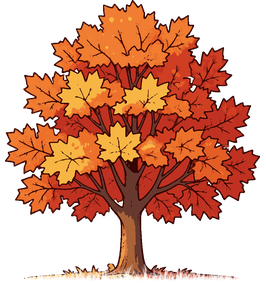
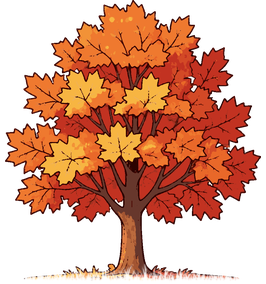
Update tree assets and animations

diff --git a/common/canvas.js b/common/canvas.js
@@ -3,6 +3,9 @@ export default {
     commandDelay: 200,
     commandTimer: undefined,
     objects: {},
+    // everything drawn so far, redrawn every frame while an image pops in
+    drawn: [],
+    animationFrame: undefined,
     setupDOM: function () {
         this.canvasElement.html('')
         this.resetCanvas(this.canvasElement)
@@ -23,6 +26,31 @@ export default {
         //     { "sx": 0.75, "sy": 0.75, "x": 650, "y": 410, "command": "drawImage", "object": { "type": "Image", "id": 4 } },
         //     { "sx": 0.75, "sy": 0.75, "x": 150, "y": 410, "command": "drawImage", "object": { "type": "Image", "id": 5 } },
         // ], 0)
+    },
+    // Field writes like `mitte.jahreszeit = "fruehling";` cannot be observed from Java, so for the run (the editor
+    // stays unchanged) a render of the scene is appended to every line in the calling code that creates a tree or
+    // assigns a tree's season. The scene then shows each step: new trees pop in, changed trees flip to their new
+    // image (see redraw). Appended on the same line, so line numbers in compiler messages stay right. Code of the
+    // Baum class itself (its constructors and methods) is left alone.
+    alterCodeBeforeRun(code) {
+        const RENDER = ' Graphics2D.instance().render();'
+        const v = String.raw`\w+(?:\[[^\]]*\])?(?:\.\w+(?:\[[^\]]*\])?)*`   // a, a.b, a[i], a[i].b
+        const step = new RegExp(String.raw`^\s*(?:[\w<>\[\]]+\s+)?${v}\s*=\s*new\s+Baum\s*\(.*\)\s*;\s*(\/\/.*)?$` +
+            String.raw`|^\s*(?!this\.)${v}\.jahreszeit\s*=.*;\s*(\/\/.*)?$`)
+        for (const entry of code) {
+            if (/\bclass\s+Baum\b/.test(entry.content) || !/\bBaum\b|\.jahreszeit\b/.test(entry.content)) continue
+            const lines = entry.content.split('\n')
+            let changed = false
+            const out = lines.map((line) => {
+                if (!step.test(line)) return line
+                changed = true
+                const comment = line.indexOf('//')
+                return comment >= 0 && !/"[^"]*\/\//.test(line)
+                    ? line.slice(0, comment).trimEnd() + RENDER + ' ' + line.slice(comment)
+                    : line.trimEnd() + RENDER
+            })
+            if (changed) entry.set(out.join('\n'))
+        }
     },
     addArgumentsTo(args) {
         let nr = 0
@@ -50,6 +78,11 @@ export default {
         }
 
         this.objects = {}
+        this.drawn = []
+        if (this.animationFrame !== undefined) {
+            cancelAnimationFrame(this.animationFrame)
+            this.animationFrame = undefined
+        }
 
         const mainCanvas = $(document.createElement('canvas'))
         mainCanvas.attr('id', 'main_canvas')
@@ -78,9 +111,86 @@ export default {
         const context = mainCanvas[0].getContext('2d');
         context.scale(retinaScalingFactor, retinaScalingFactor);
 
-        context.imageSmoothingEnabled = false;
+        // smooth: the scene images are drawn scaled down, nearest-neighbour sampling makes their edges jagged
+        context.imageSmoothingEnabled = true;
         context.imageSmoothingQuality = 'high';
 
+    },
+    // Pop-in of the scene pieces, tuned in CSS (e.g. tree.css): the piece grows from its anchor (the tree's foot)
+    // with an overshoot and wobbles around it while settling.
+    //   --cb-image-pop-duration  e.g. 700ms     --cb-image-pop-wiggle  e.g. 7deg (0 to switch the wobble off)
+    // An object whose image changes turns like a paper card: the old image folds away, the new one unfolds.
+    //   --cb-image-change-duration  e.g. 800ms
+    popSettings() {
+        const css = (name, fallback) => parseFloat(this.mainCanvas.css(name)) || fallback
+        const reduced = window.matchMedia?.('(prefers-reduced-motion: reduce)').matches
+        return {
+            duration: reduced ? 0 : css('--cb-image-pop-duration', 700),
+            wiggle: css('--cb-image-pop-wiggle', 7) * Math.PI / 180,
+            change: reduced ? 0 : css('--cb-image-change-duration', 800),
+        }
+    },
+    redraw() {
+        const canvas = this.mainCanvas[0]
+        const ctx = canvas.getContext('2d')
+        const pop = this.popSettings()
+        const now = performance.now()
+        ctx.save()
+        ctx.setTransform(1, 0, 0, 1, 0, 0)
+        ctx.clearRect(0, 0, canvas.width, canvas.height)
+        ctx.restore()
+        let animating = false
+        for (const item of this.drawn) {
+            animating = this.drawItem(ctx, item, now, pop) || animating
+        }
+        if (this.animationFrame !== undefined) cancelAnimationFrame(this.animationFrame)
+        this.animationFrame = animating ? requestAnimationFrame(() => this.redraw()) : undefined
+    },
+    drawItem(ctx, item, now, pop) {
+        const { cmd, start, kind } = item
+        const duration = kind === 'flip' ? pop.change : pop.duration
+        const t = duration > 0 ? Math.min(1, (now - start) / duration) : 1
+        // flip: the first half folds the old image to its edge, the second half unfolds the new one
+        const obj = kind === 'flip' && t < 0.5 ? item.from : item.obj
+        //draw the image at x, y scaled by the image's and the command's scale, placed by the image's anchor
+        const iw = Math.round(obj.img.width * obj.sx * cmd.sx);
+        const ih = Math.round(obj.img.height * obj.sy * cmd.sy);
+        ctx.save()
+        if (t < 1) {
+            ctx.translate(cmd.x, cmd.y)
+            if (kind === 'flip') {
+                const fold = Math.abs(Math.cos(t * Math.PI))          // 1 -> 0 -> 1
+                const lift = Math.sin(t * Math.PI)                       // up while turning
+                ctx.translate(0, -0.06 * ih * lift)
+                ctx.scale(Math.max(fold, 0.02), 1 + 0.06 * lift)
+            } else {
+                // easeOutBack for the size, a decaying swing for the angle, both around the anchor point
+                const c = 1.9
+                const grow = 1 + (c + 1) * Math.pow(t - 1, 3) + c * Math.pow(t - 1, 2)
+                ctx.rotate(pop.wiggle * Math.sin(t * Math.PI * 3) * (1 - t))
+                ctx.scale(Math.max(grow, 0.001), Math.max(grow, 0.001))
+            }
+            ctx.translate(-cmd.x, -cmd.y)
+        }
+        // images marked with a shadow get the CSS drop-shadow from --cb-image-shadow (e.g. tree.css): as a canvas
+        // filter, or where canvas filters are missing (Safari before 18) with the canvas shadow properties
+        const shadow = obj.shadow ? this.mainCanvas.css('--cb-image-shadow')?.trim() : ''
+        if (shadow) {
+            const m = shadow.match(/^(-?[\d.]+)px\s+(-?[\d.]+)px\s+([\d.]+)px\s+(.+)$/)
+            if (typeof ctx.filter === 'string') {
+                ctx.filter = `drop-shadow(${shadow})`
+            } else if (m) {
+                // shadow offsets ignore the context transform: scale them to device pixels by hand
+                const dpr = window.devicePixelRatio || 1
+                ctx.shadowOffsetX = parseFloat(m[1]) * dpr
+                ctx.shadowOffsetY = parseFloat(m[2]) * dpr
+                ctx.shadowBlur = parseFloat(m[3]) * dpr
+                ctx.shadowColor = m[4]
+            }
+        }
+        ctx.drawImage(obj.img, Math.round(cmd.x - iw * obj.ax), Math.round(cmd.y - ih * obj.ay), iw, ih)
+        ctx.restore()
+        return t < 1
     },
     runCommand(commands, idx) {
         this.commandTimer = undefined
@@ -117,24 +227,27 @@ export default {
             const obj = this.objects[cmd.object.id]
             if (obj === undefined) console.error('Object not found', cmd.object.id)
 
-            //console.log("DEBUG", cmd, obj)
-
-            const ctx = self.mainCanvas[0].getContext('2d')
-
-            //draw the image flname at x, y on the mainCanvas and scale the image by scale
-            const iw = Math.round(obj.img.width * obj.sx * cmd.sx);
-            const ih = Math.round(obj.img.height * obj.sy * cmd.sy);
-            ctx.drawImage(obj.img, Math.round(cmd.x - iw * obj.ax), Math.round(cmd.y - ih * obj.ay), iw, ih)
-
-            // // show a blue square at the x, y position
-            // ctx.fillStyle = 'blue';
-            // ctx.fillRect(Math.round(cmd.x) - 5, Math.round(cmd.y) - 5, 10, 10);
+            // an image of an object drawn before (same key, see Graphics2D.render) replaces it: unchanged it is
+            // skipped without delay, a new image flips in; other images marked with a shadow pop in (drawItem)
+            const now = performance.now()
+            const prev = cmd.key !== undefined ? this.drawn.find((it) => it.cmd.key === cmd.key) : undefined
+            if (prev && prev.obj === obj && prev.cmd.x === cmd.x && prev.cmd.y === cmd.y) {
+                hasDelay = false
+            } else if (prev) {
+                Object.assign(prev, { from: prev.obj, obj, cmd, start: now, kind: 'flip' })
+                hasDelay = true
+                this.extraDelay = this.popSettings().change
+            } else {
+                this.drawn.push({ obj, cmd, start: obj.shadow ? now : -Infinity, kind: 'pop' })
+            }
+            this.redraw()
         }
 
         if (callNext) {
             this.commandTimer = setTimeout(() => {
                 next()
-            }, hasDelay ? this.commandDelay : 10)
+            }, hasDelay ? this.commandDelay + (this.extraDelay || 0) : 10)
+            this.extraDelay = 0
         }
     }
 }

diff --git a/common/scene/tree/Graphics2D.html b/common/scene/tree/Graphics2D.html
@@ -16,7 +16,8 @@
     <li><code>public void registerForRender(Renderable r)</code><br>Registriert ein neues Render-Objekt zur
         Rendering-Liste.</li>
     <li><code>public void render()</code><br>Rendert alle registrierten Objekte, indem die <code>render()</code>-Methode
-        jedes Objekts aufgerufen wird.</li>
+        jedes Objekts aufgerufen wird. Wird <code>render()</code> mehrfach aufgerufen, zeigt die Bühne jedes Mal den
+        aktuellen Zustand; Objekte, deren Bild sich geändert hat, wechseln mit einer Animation.</li>
     <li><code>public void drawImage(Image img, int x, int y)</code><br>Zeichnet ein Bild an die angegebene Position
         <code>(x, y)</code> in der Originalgröße.
     </li>

diff --git a/common/scene/tree/tree.css b/common/scene/tree/tree.css
@@ -2,6 +2,13 @@
     --canvas-width: 800px;
     --canvas-height: 450px;
     --canvas-scale: 0.75;
+    /* shadow of the paper cut-outs (images created with shadow = true): "x y blur colour" as in drop-shadow() */
+    --cb-image-shadow: 5px 8px 6px rgba(40, 28, 16, 0.45);
+    /* pop-in of the trees: grow from the foot with an overshoot and a wobble (canvas.js) */
+    --cb-image-pop-duration: 700ms;
+    --cb-image-pop-wiggle: 7deg;
+    /* a tree whose season changes turns like a paper card to its new image (canvas.js) */
+    --cb-image-change-duration: 800ms;
 
     position: relative;
     border: 1px dotted #d0d0d0;

diff --git a/common/scene/tree/Image.html b/common/scene/tree/Image.html
@@ -12,4 +12,6 @@
         der angegebenen Vergrößerung. Der Ursprung ist die linke obere Ecke.</li>
     <li><code>public Image(String name, double scale, double anchorX, double anchorY)</code><br>Erstellt ein neues Bild
         mit dem angegebenen Namen, Vergrößerung und dem angegebenen Ankerpunkt.</li>
+    <li><code>public Image(String name, double scale, double anchorX, double anchorY, boolean shadow)</code><br>Wie
+        oben; ist <code>shadow</code> wahr, wirft das Bild beim Zeichnen einen Schatten.</li>
 </ul>

diff --git a/common/scene/tree/TreeLibrary.html b/common/scene/tree/TreeLibrary.html
@@ -11,5 +11,4 @@
     <li><code>public static final Image LATE_AUTUMN</code><br>Ein Bild, das einen Baum im Spätherbst darstellt.</li>
     <li><code>public static final Image POW</code><br>Ein Bild, das eine besondere Grafik darstellt.</li>
     <li><code>public static final Image STAGE</code><br>Ein Bild für den Hintegrund (die Bühne).</li>
-    <li><code>public static final Image FOREGROUND</code><br>Der Vordergrund (die Wiese vor den Bäumen), wird nach den Bäumen gezeichnet.</li>
 </ul>

diff --git a/common/scene/tree/TreeLibrary.java b/common/scene/tree/TreeLibrary.java
@@ -1,10 +1,9 @@
 class TreeLibrary {
-    public static final Image SPRING = new Image("@assets/seasonal/tree.spring.png", 0.42, 0.5, 1.145);
-    public static final Image SUMMER = new Image("@assets/seasonal/tree.summer.png", 0.42, 0.5, 1.145);
-    public static final Image AUTUMN = new Image("@assets/seasonal/tree.autumn.png", 0.42, 0.5, 1.145);
-    public static final Image WINTER = new Image("@assets/seasonal/tree.winter.png", 0.42, 0.5, 1.145);
-    public static final Image LATE_AUTUMN = new Image("@assets/seasonal/tree.lateautumn.png", 0.42, 0.5, 1.145);
-    public static final Image POW = new Image("@assets/seasonal/pow.png", 0.5, 0.5, 1.2);
+    public static final Image SPRING = new Image("@assets/seasonal/tree.spring.png", 0.4, 0.5, 1, true);
+    public static final Image SUMMER = new Image("@assets/seasonal/tree.summer.png", 0.4, 0.5, 1, true);
+    public static final Image AUTUMN = new Image("@assets/seasonal/tree.autumn.png", 0.4, 0.5, 1, true);
+    public static final Image WINTER = new Image("@assets/seasonal/tree.winter.png", 0.4, 0.5, 1, true);
+    public static final Image LATE_AUTUMN = new Image("@assets/seasonal/tree.lateautumn.png", 0.4, 0.5, 1, true);
+    public static final Image POW = new Image("@assets/seasonal/pow.png", 0.5, 0.5, 1, true);
     public static final Image STAGE = new Image("@assets/seasonal/stage.png");
-    public static final Image FOREGROUND = new Image("@assets/seasonal/foreground.png");
 }

diff --git a/common/scene/tree/Graphics2D.java b/common/scene/tree/Graphics2D.java
@@ -6,6 +6,9 @@ class Graphics2D {
     static final de.fau.tf.lgdv.runtime.CommandBuffer COMMAND_BUFFER = new de.fau.tf.lgdv.runtime.CommandBuffer();
     private final java.util.List<Renderable> objects = new java.util.LinkedList<>();
     private static Graphics2D INSTANCE;    
+    // index of the object that is rendering right now (-1 outside render()): the canvas uses it to recognise the
+    // same object in a later frame, e.g. to animate a change of its image
+    private int current = -1;
 
     public static Graphics2D instance(){
         if (INSTANCE == null){
@@ -19,9 +22,12 @@ class Graphics2D {
     }
 
     public void render(){
+        int index = 0;
         for (Renderable b : this.objects){
+            this.current = index++;
             b.render(this);
         }
+        this.current = -1;
     }
 
     public void drawImage(Image img, int x, int y){
@@ -33,6 +39,10 @@ class Graphics2D {
     }
 
     public void drawImage(Image img, int x, int y, double sx, double sy){
-        COMMAND_BUFFER.addCommand("drawImage", img, new de.fau.tf.lgdv.json.JsonObject().put("x", x).put("y", y).put("sx", sx).put("sy", sy));
+        de.fau.tf.lgdv.json.JsonObject args = new de.fau.tf.lgdv.json.JsonObject().put("x", x).put("y", y).put("sx", sx).put("sy", sy);
+        if (this.current >= 0) {
+            args.put("key", this.current);
+        }
+        COMMAND_BUFFER.addCommand("drawImage", img, args);
     }
 }

diff --git a/common/scene/tree/Image.java b/common/scene/tree/Image.java
@@ -3,6 +3,7 @@ class Image extends de.fau.tf.lgdv.runtime.RemoteObject{
     private final double scale;
     private final double anchorX;
     private final double anchorY;
+    private final boolean shadow;
     public Image(String name){
         this(name, 1.0, 0, 0);
     }
@@ -12,11 +13,16 @@ class Image extends de.fau.tf.lgdv.runtime.RemoteObject{
     }
 
     public Image(String name, double scale, double anchorX, double anchorY){
+        this(name, scale, anchorX, anchorY, false);
+    }
+
+    public Image(String name, double scale, double anchorX, double anchorY, boolean shadow){
         super("Image");
         this.name = name;
         this.scale = scale;
         this.anchorX = anchorX;
         this.anchorY = anchorY;
+        this.shadow = shadow;
         Graphics2D.COMMAND_BUFFER.addNewObject(this);
     }
 
@@ -26,5 +32,6 @@ class Image extends de.fau.tf.lgdv.runtime.RemoteObject{
         json.put("sy", scale);
         json.put("ax", anchorX);
         json.put("ay", anchorY);
+        json.put("shadow", shadow);
     }
 }

diff --git a/12_Instanzen/beispiel_wald_schwer/MainOverride.java b/12_Instanzen/beispiel_wald_schwer/MainOverride.java
@@ -1,13 +1,11 @@
-
-
 class MainOverride {
     public static void main(String[] args) {
-        Wald.main(args);
-
+        // the stage first: the scene is also rendered while Wald.main runs (after each new tree and each change of
+        // a tree's season, inserted by common/canvas.js before the run), so every change is shown in turn
         Graphics2D.instance().drawImage(TreeLibrary.STAGE, 0, 0);
+        Wald.main(args);
         Graphics2D.instance().render();
-        Graphics2D.instance().drawImage(TreeLibrary.FOREGROUND, 0, 0);
-        
+
         Graphics2D.COMMAND_BUFFER.sendCommands("Error: sendCommands called twice");    
     }
 }
